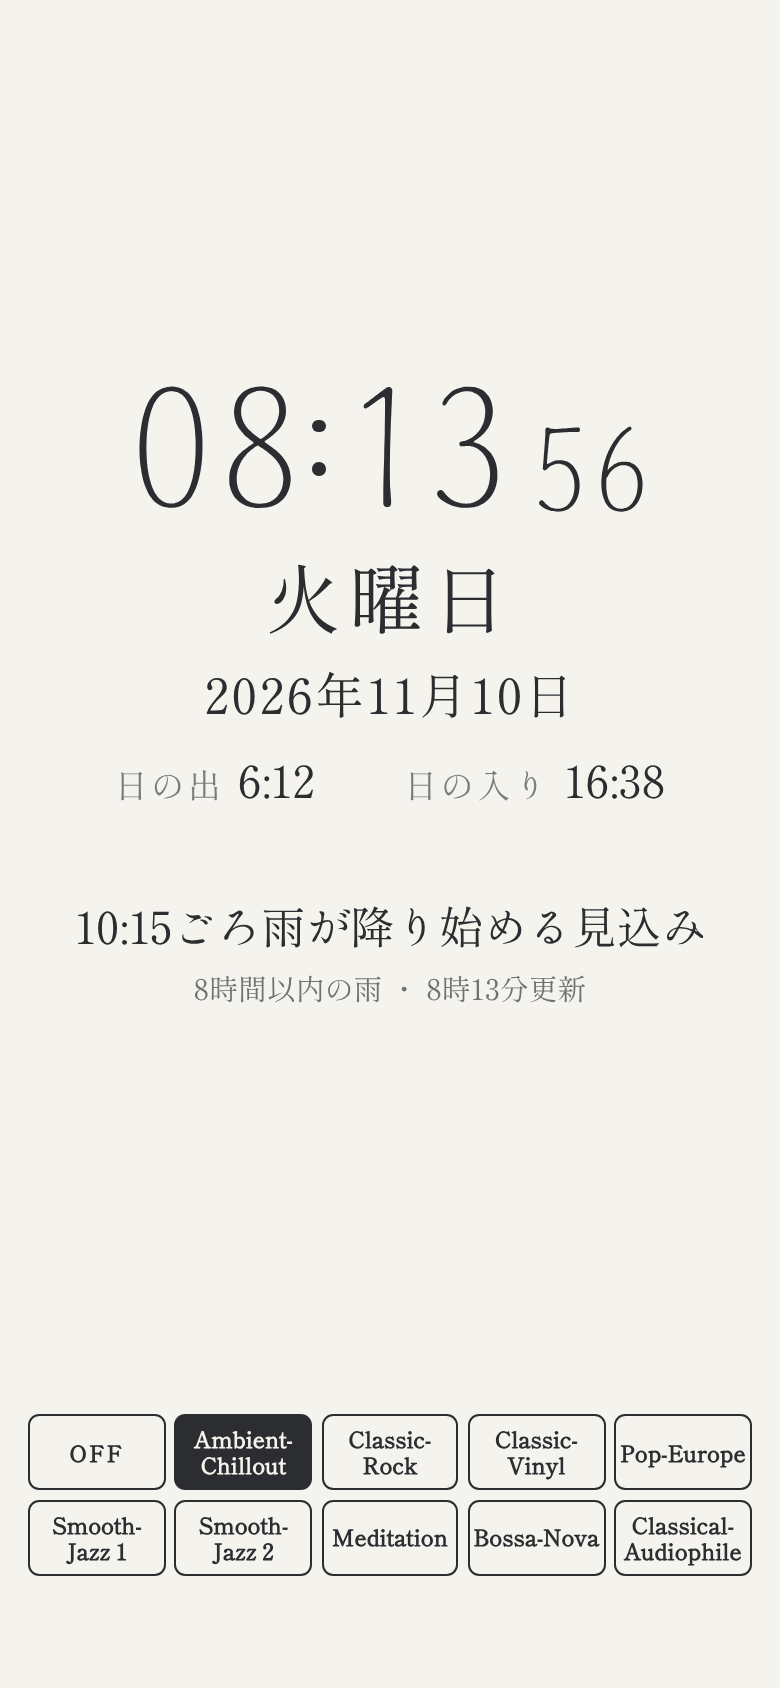
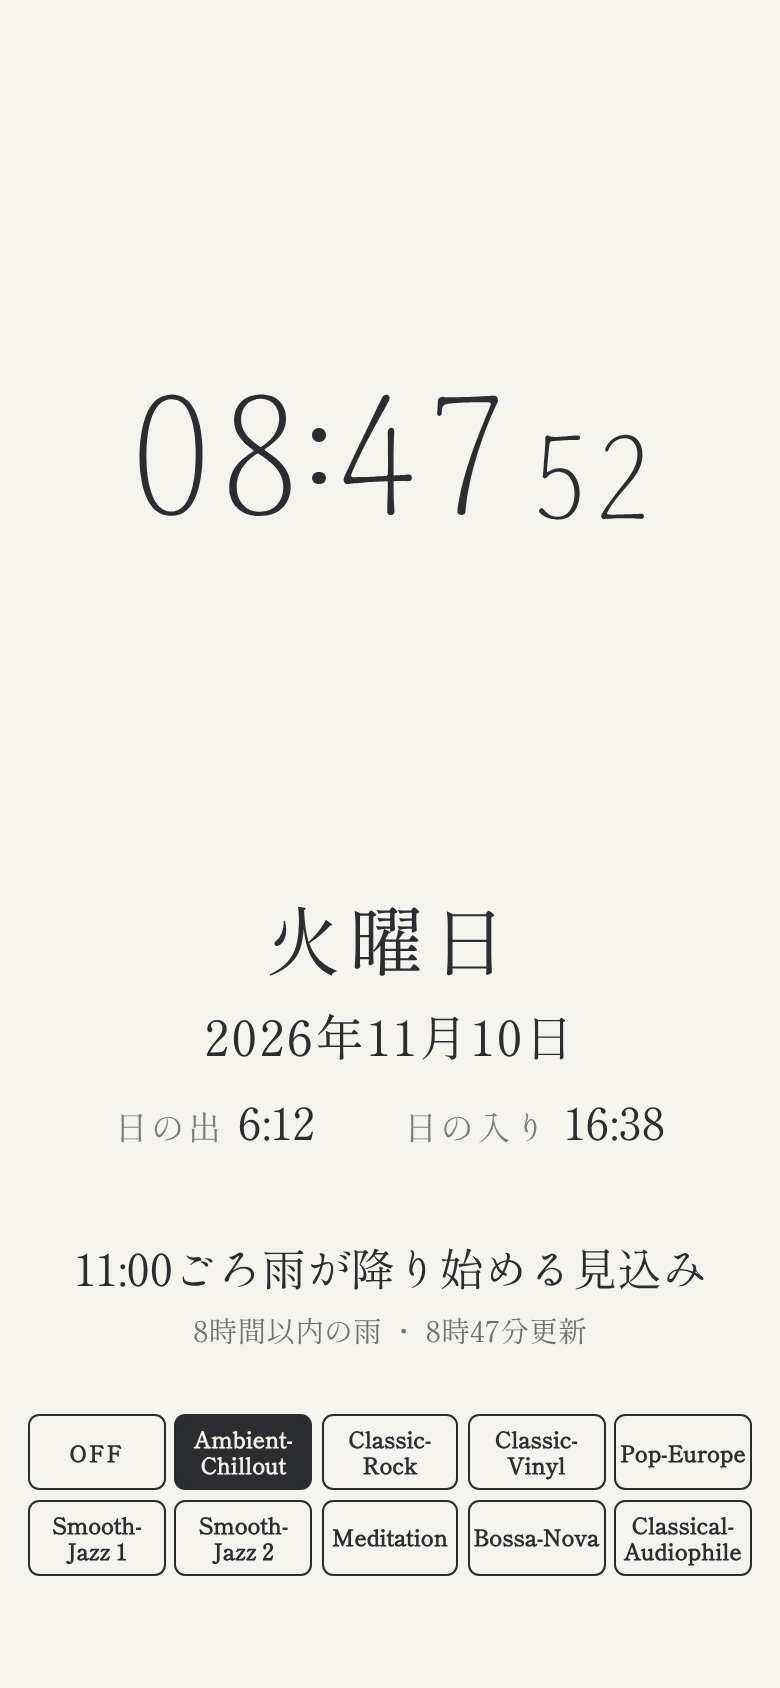
Still Here: 時刻を上端と曜日の真ん中に独立させ、再生中の表示を局の名前だけにする
Claude-Session: https://claude.ai/code/session_01NVsEU5YZ5BtdUQZHyMLdES

diff --git a/still-here/index.html b/still-here/index.html
@@ -68,6 +68,9 @@
   /* 時刻以外の文字の倍率(遠くから読めるよう 150%) */
   :root { --k: 1.5; }
   .col { display: flex; flex-direction: column; align-items: center; width: 100%; }
+  /* 時刻は独立させ、画面の上端と曜日のちょうど真ん中に置く(.timebox が上の空きを全部使い、その中央に時刻) */
+  .timebox { flex: 1 1 auto; display: flex; align-items: center; justify-content: center; width: 100%; }
+  .info { display: flex; flex-direction: column; align-items: center; }
 
   /* 時刻: 数字は travelフォント(SVG)。桁ごとに固定幅の枠に入れて中央揃え */
   .time { display: flex; align-items: flex-end; height: var(--T); }
@@ -79,7 +82,7 @@
   .sec { display: flex; height: calc(var(--T) * 0.7); margin-left: calc(var(--T) * 0.12); }
   .sec .slot { width: calc(var(--T) * 0.42); }
 
-  .weekday { font-size: calc(var(--T) * 0.34 * var(--k)); margin-top: calc(var(--T) * 0.12); letter-spacing: 0.1em; }
+  .weekday { font-size: calc(var(--T) * 0.34 * var(--k)); letter-spacing: 0.1em; }
   .date { font-size: calc(var(--T) * 0.22 * var(--k)); margin-top: calc(var(--T) * 0.06); letter-spacing: 0.05em; }
   .sun { display: flex; margin-top: calc(var(--T) * 0.12); font-size: calc(var(--T) * 0.2 * var(--k)); }
   .sun div + div { margin-left: 2em; }
@@ -109,24 +112,27 @@
   .radio .power { letter-spacing: 0.1em; }
   .radio .state { text-align: center; margin-top: 0.6em; opacity: 0.75; min-height: 1.4em; }
 
-  /* 縦向き: 時刻〜雨予報を上の空きの中央に、ラジオ(ボタン10個と状態の1行)を画面の下に置く */
+  /* 縦向き: ラジオ(ボタン10個と状態の1行)を画面の下に置く */
   @media (orientation: portrait) {
     :root { --T: min(19vw, 12vh); }
+    /* 上から: 時刻(上の空きの中央) → 曜日・日付・日の出/日の入り → 雨予報 → ラジオ(画面の下) */
     main { justify-content: flex-start; }
-    .col { margin-top: auto; }
-    .radio { margin-top: auto; padding-top: 4vh; font-size: calc(3.6vw * var(--k)); }
+    .col { flex: 1 1 auto; }
+    .radio { margin-top: 4vh; font-size: calc(3.6vw * var(--k)); }
   }
   /* 横向き: 左に時刻〜日の出・日の入り、右に雨予報・ラジオ */
   @media (orientation: landscape) {
     :root { --T: min(11vw, 24vh); }
     /* 横向きは文字の倍率を 125% にする(時刻とボタンの名前は変わらない) */
     :root { --k: 1.25; }
-    /* 左の列に時刻〜日の出・日の入り、右の列の中央に雨予報とラジオ */
+    /* 左の列に時刻〜日の出・日の入り、右の列に雨予報とラジオ(下端は日の出・日の入りにそろえる。app.js の alignRight) */
     main {
-      display: grid; grid-template-columns: 1fr 1fr; grid-template-rows: 1fr auto auto 1fr;
+      height: 100vh; display: grid; grid-template-columns: 1fr 1fr; grid-template-rows: 1fr auto auto 1fr;
       grid-column-gap: 3vw; align-items: center; justify-items: center;
     }
-    .col { grid-column: 1; grid-row: 1 / 5; }
+    /* 左の列: 時刻は上端と曜日の真ん中。曜日〜日の出/日の入りは列の下寄り */
+    .col { grid-column: 1; grid-row: 1 / 5; align-self: stretch; }
+    .info { padding-bottom: 8vh; }
     .rain { grid-column: 2; grid-row: 2; margin-top: 0; }
     .radio { grid-column: 2; grid-row: 3; font-size: calc(var(--T) * 0.15 * var(--k)); }
     .rain .main { font-size: calc(var(--T) * 0.24 * var(--k)); }
@@ -138,12 +144,14 @@
 <body>
 <main>
   <div class="col">
-    <div class="time" id="time" aria-label="時刻"></div>
-    <div class="weekday" id="weekday">--曜日</div>
-    <div class="date" id="date">----年--月--日</div>
-    <div class="sun">
-      <div><span class="label">日の出</span><span id="sunrise">--:--</span></div>
-      <div><span class="label">日の入り</span><span id="sunset">--:--</span></div>
+    <div class="timebox"><div class="time" id="time" aria-label="時刻"></div></div>
+    <div class="info">
+      <div class="weekday" id="weekday">--曜日</div>
+      <div class="date" id="date">----年--月--日</div>
+      <div class="sun">
+        <div><span class="label">日の出</span><span id="sunrise">--:--</span></div>
+        <div><span class="label">日の入り</span><span id="sunset">--:--</span></div>
+      </div>
     </div>
   </div>
   <section class="rain" aria-label="8時間以内の雨">

diff --git a/still-here/sw.js b/still-here/sw.js
@@ -14,7 +14,8 @@ const CACHE_PREFIX = 'uniiqcode-still-here-';
 // 同じ版で: 雨予報の文を、かたまりの切れ目でだけ折り返すようにした。
 // v6→v7(2026年11月): 横向きで、ラジオ(状態の1行を含む)の下端を日の出・日の入りの下端にそろえた。
 // v7→v8(2026年11月): 18時を昼のグループ(明るい色)に入れた。
-const CACHE_NAME = CACHE_PREFIX + 'v8';
+// v8→v9(2026年11月): 時刻を上端と曜日の真ん中に独立させ、再生中の表示を局の名前だけにした。
+const CACHE_NAME = CACHE_PREFIX + 'v9';
 
 const APP_SHELL = [
   './', 'index.html', 'app.js', 'manifest.json',

diff --git a/still-here/app.js b/still-here/app.js
@@ -316,7 +316,7 @@
       renderRadio();
       if (isOn) connect(); else disconnect();
     });
-    audio.addEventListener('playing', function () { if (isOn) setState('再生中 ' + STATIONS[selected].label + '(' + STATIONS[selected].name + ')'); });
+    audio.addEventListener('playing', function () { if (isOn) setState(STATIONS[selected].name); });
     audio.addEventListener('waiting', function () { if (isOn) setState('接続中…'); });
     audio.addEventListener('error', function () { if (isOn && audio.getAttribute('src')) setState('つながりませんでした'); });
     renderRadio();
